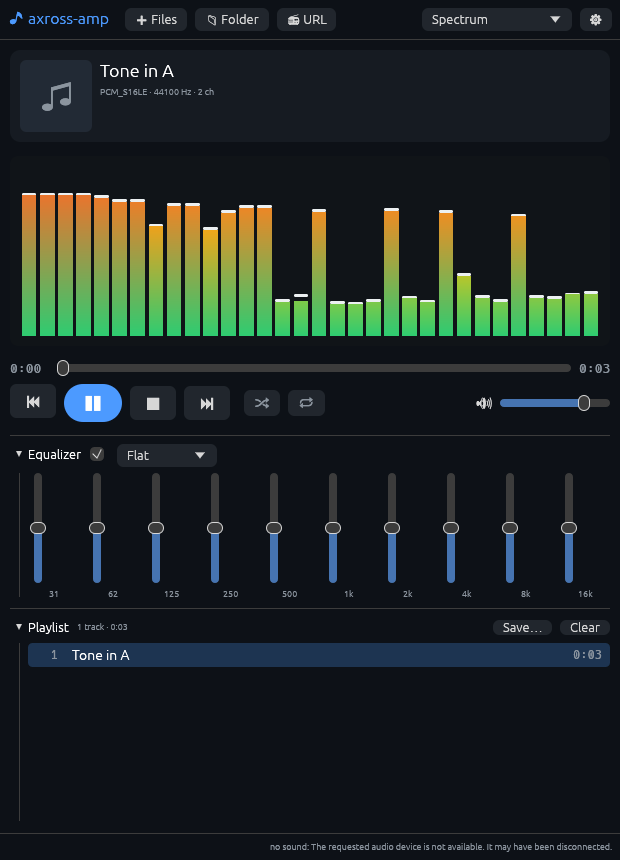
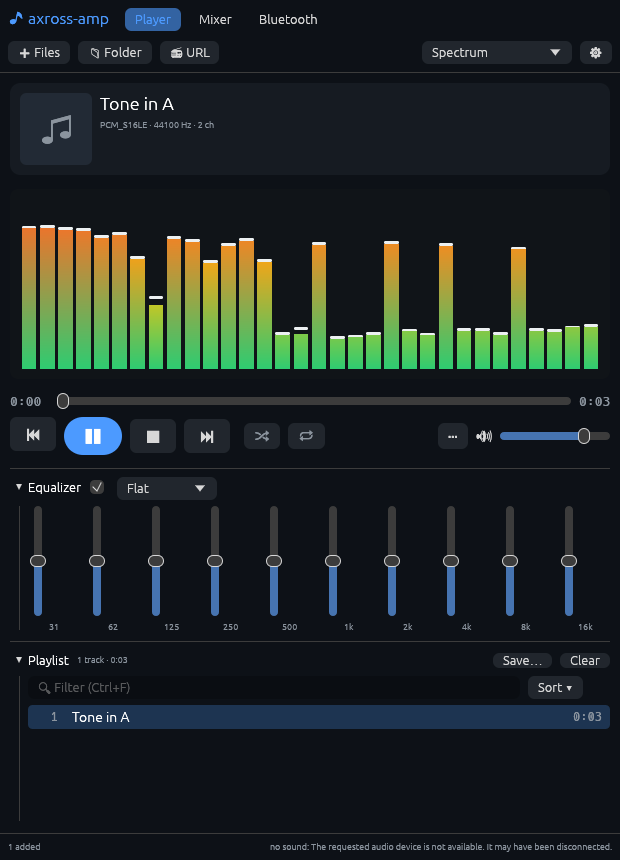
README: what the player does now, its keys, what is left out and why; pictures anew
The features list says what is true now (gapless, ReplayGain, radios with
their titles, MPRIS, eighteen faces, the playlist's filter and sorting,
the sleep timer, an output that goes away), the keys are a table, and the
Status section names what stays axross-only and what is left out on
purpose (crossfade, speed, A-B loops, a detached visualization window,
choosing several rows, the sound card speed check) with why. The window's
and the visualizations' pictures show the program as it is.

diff --git a/README.md b/README.md
@@ -7,23 +7,46 @@ axross's Media Player as a program of its own - written in Rust.
 - **Plays** local files (MP3, FLAC, Ogg Vorbis, Opus, AAC / M4A, ALAC, WAV, AIFF, CAF;
   MP4 / MKV containers), folders and M3U / PLS playlists, and **internet radio** by
   its http(s) URL - decoded by [symphonia](https://github.com/pdeljanov/Symphonia)
-  (Opus by libopus, built in; AAC / ALAC in MP4 trimmed by its edit list: gapless),
-  played through [cpal](https://github.com/RustAudio/cpal) (PulseAudio / PipeWire or
-  ALSA on Linux, CoreAudio on macOS, WASAPI on Windows), resampled to the output's rate.
-- **A ten-band equalizer** with axross's presets (Flat, Bass boost, Treble boost,
-  Vocal, Loudness, Rock), headroom so a boost does not clip.
-- **Visualizations** drawn on the GPU (egui): spectrum, mirrored, radial and polar
-  spectrum, line spectrum, LED equalizer, waterfall, ridgelines, oscilloscope, stereo
-  scope, VU meters, starfield - in axross's colour schemes (Classic, Fire, Ice, Neon,
-  Mono, Custom), with its options (bars, smoothing, peak fall, frame rate). A click on
-  the picture shows the next one, a double-click makes it large.
-- **Playlist** with shuffle, repeat (all / one), drag and drop (also of files from
-  the desktop), saving as M3U; cover art and tags (title, artist, album).
+  (Opus by libopus, built in), played through [cpal](https://github.com/RustAudio/cpal)
+  (PulseAudio / PipeWire or ALSA on Linux, CoreAudio on macOS, WASAPI on Windows).
+- **Gapless**: the next track is opened before the current one ends and decoded on
+  into the same buffer - not a sample of silence between the tracks of an album;
+  AAC / ALAC in MP4 are trimmed by their edit list (encoder delay and padding).
+- **Sound**: resampled to the output's rate by a band-limited (windowed-sinc)
+  resampler; 5.1 / 7.1 downmixed as ITU-R BS.775 has it; **ReplayGain** (track or
+  album gain, pre-amp, held below the peak; Opus R128 gains too); a ten-band
+  **equalizer** with axross's presets; a volume curve as axross's. An output that
+  goes away (a headset switched off) is opened again; one chosen that is not there
+  gives way to the default.
+- **Internet radio**: what the station plays now (ICY `StreamTitle`), its name and
+  genre; a radio that breaks off is connected again; a `.pls` / `.m3u` URL from a
+  radio directory is resolved (only its http(s) entries); old SHOUTcast servers
+  (`ICY 200 OK`) play. The network is read on threads of its own: a server that
+  stalls holds up nothing.
+- **Visualizations** drawn on the GPU (egui) - all eighteen of axross's: spectrum,
+  mirrored, radial and polar spectrum, line spectrum, LED equalizer, particle
+  columns, waterfall, ridgelines, spectrum terrain, 3D ring, bell curves, wave
+  ribbon, kaleidoscope, oscilloscope, stereo scope, VU meters, starfield - in
+  axross's colour schemes (Classic, Fire, Ice, Neon, Mono, Follow the theme,
+  Custom - edited here), with its options (bars, smoothing, peak fall, frame
+  rate). A click shows the next face, a double-click makes it large, F11 full
+  screen, a right click its menu.
+- **Playlist**: shuffle (Previous goes back the way it came), repeat (all / one), a
+  filter (Ctrl+F), sorting (title, file name, folder, length, reversed), reordering
+  by dragging or by keys, drag and drop of files and folders from the desktop
+  (walked in the background), saving as M3U8. Titles and lengths are read in the
+  background; a track that cannot be played is marked red with why; the details of
+  a track (tags, format, ReplayGain) in a window of their own.
+- **Sleep timer** (15 to 90 minutes with a fade, or at the end of the track).
+- **The desktop** (Linux): MPRIS 2 on the session bus - media keys, a headset's
+  buttons, the desktop's sound menu and lock screen show and control it. The window
+  title says what plays; the window opens as large as it was left.
 - **The system mixer** (Mixer tab): this player's output device, volume, mute and
   equalizer; the sound server's outputs and inputs (volume, balance kept, mute, port,
   default), the applications playing and recording (volume, mute, which device) and
   the cards' profiles (a Bluetooth headset: A2DP or headset) - through `pactl` of
-  PulseAudio or PipeWire, live as they change elsewhere.
+  PulseAudio or PipeWire, live as they change elsewhere; volumes follow a slider
+  while it is dragged.
 - **Bluetooth** (Bluetooth tab, Linux): the adapter (power, scan for Classic and / or
   BLE devices), the devices with kind, battery, signal and state; Pair, Trust,
   Connect, Disconnect, Forget - through BlueZ on the system D-Bus
@@ -33,7 +56,9 @@ axross's Media Player as a program of its own - written in Rust.
 - **Shares its state with axross**: the playlist, the track and its position, the
   volume, the visualization (`~/.config/axross/media_player.json`) and axross's one
   equalizer (`~/.config/axross/audio.json`) - the player inside axross and this
-  program pick up where the other left off. Keys they do not know are kept.
+  program pick up where the other left off. Keys they do not know are kept. What
+  only this program has (window size, ReplayGain) is in
+  `~/.config/axross/axross-amp.json`, as axross rewrites its own file with its keys.
 
 ![The visualizations](docs/visualizations.png)
 
@@ -48,8 +73,21 @@ axross-amp list.m3u song.flac
 axross-amp https://example.org/radio.mp3
 ```
 
-Keys: Space play / pause, Left / Right seek 5 s, Up / Down volume, M mute, N next,
-P previous, V next visualization, Enter play the selected track, Delete remove it.
+Keys (on the Player tab, not while typing in a field):
+
+| Key | |
+|---|---|
+| Space | play / pause |
+| ← / → | seek 5 s (Shift: 30 s); Ctrl: previous / next track |
+| ↑ / ↓, + / − | volume |
+| Home | the track's start |
+| M, N, P | mute, next, previous |
+| V, F11 | the next visualization; full screen (Escape leaves) |
+| Ctrl+F | the playlist's filter |
+| Ctrl+↑ / ↓, Alt+↑ / ↓ | choose a track in the playlist; move it |
+| Enter, Delete | play the chosen track; remove it |
+
+The mouse wheel seeks over the position and sets the volume over its slider.
 
 ## Build
 
@@ -65,18 +103,33 @@ spoken natively. libopus is built from its sources, which needs CMake.
 ## Status
 
 This is the Rust rewrite of the Python `axross-amp` (written out of
-[axross](https://github.com/c0decave/axross) by `scripts/export_standalone.py amp`),
-done step by step: **the player**, **the mixer** and **Bluetooth** are here, so the
-three tabs of the Python version are. What stays in axross's Bluetooth panel only:
-the map of devices by distance, the presence log, HCI capture streams, GATT details,
-connection tests and driving a USB stick directly (Bumble). On macOS and Windows the
-Bluetooth tab points to the system's settings (BlueZ is Linux's); the Mixer tab
-needs `pactl` (Linux, or a PulseAudio elsewhere).
+[axross](https://github.com/c0decave/axross) by `scripts/export_standalone.py amp`).
+The three tabs of the Python version are here, and its player's features but for
+those named below; on top of them: gapless playback, ReplayGain, MPRIS, ICY titles and
+reconnecting radios, a playlist filter and sorting, background reading of titles and
+lengths, track details.
 
-Tests: `cargo test` runs everywhere; the mixer and Bluetooth tests run against
-axross's fakes when they are given - `AMP_FAKE_PACTL=axross/tests/fake_pactl.py`,
-`AMP_FAKE_BLUEZ=axross/tests/fake_bluez.py` (on a private `dbus-daemon`) and
-`AMP_PYTHON` (a Python with jeepney) - and pass without them.
+What stays in axross's Bluetooth panel only: the map of devices by distance, the
+presence log, HCI capture streams, GATT details, connection tests and driving a USB
+stick directly (Bumble). Left out on purpose: crossfading (it fights gapless albums),
+playback speed and A-B loops, lyrics and scrobbling (none of them in axross either);
+a visualization detached into a window of its own (full screen and the large view
+cover it); choosing several playlist rows at once (one at a time here); axross's
+check that the sound card plays at its speed; its session's theme and language;
+tracks dropped from axross's remote panes (axross's own business). On
+macOS and Windows the Bluetooth tab points to the system's settings (BlueZ is
+Linux's) and there is no MPRIS (media keys there would need the platform's own APIs);
+the Mixer tab needs `pactl` (Linux, or a PulseAudio elsewhere).
+
+Tests: `cargo test` runs everywhere. The window is driven headless (egui_kittest,
+wgpu - Mesa's lavapipe works without a GPU); the engine's sound is taken by the
+tests themselves sample by sample (gapless joins, streams from local HTTP servers
+that stall, break off, carry ICY titles); with `AMP_CORPUS` (a folder made by
+`make.py` with PyAV) every format is played through ALSA's file plugin and measured.
+The mixer and Bluetooth tests run against axross's fakes when they are given -
+`AMP_FAKE_PACTL=axross/tests/fake_pactl.py`, `AMP_FAKE_BLUEZ=axross/tests/fake_bluez.py`
+(on a private `dbus-daemon`) and `AMP_PYTHON` (a Python with jeepney); MPRIS runs on
+a private `dbus-daemon` of its own. Without them those tests pass, saying so.
 
 ## Licence
 
